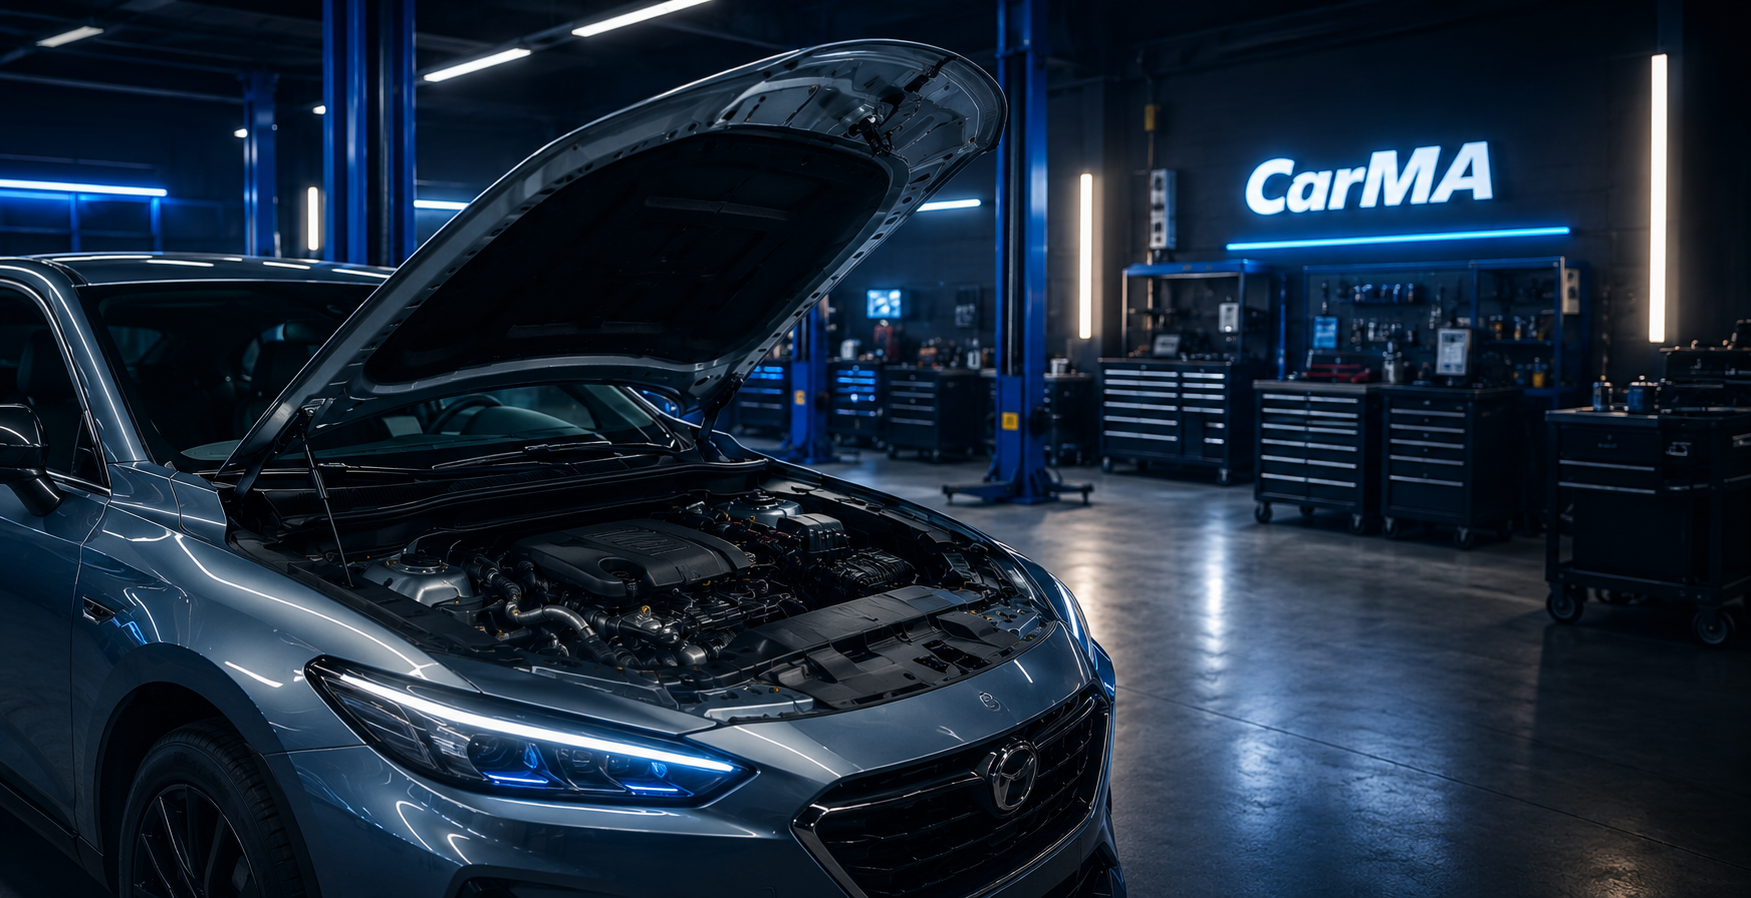
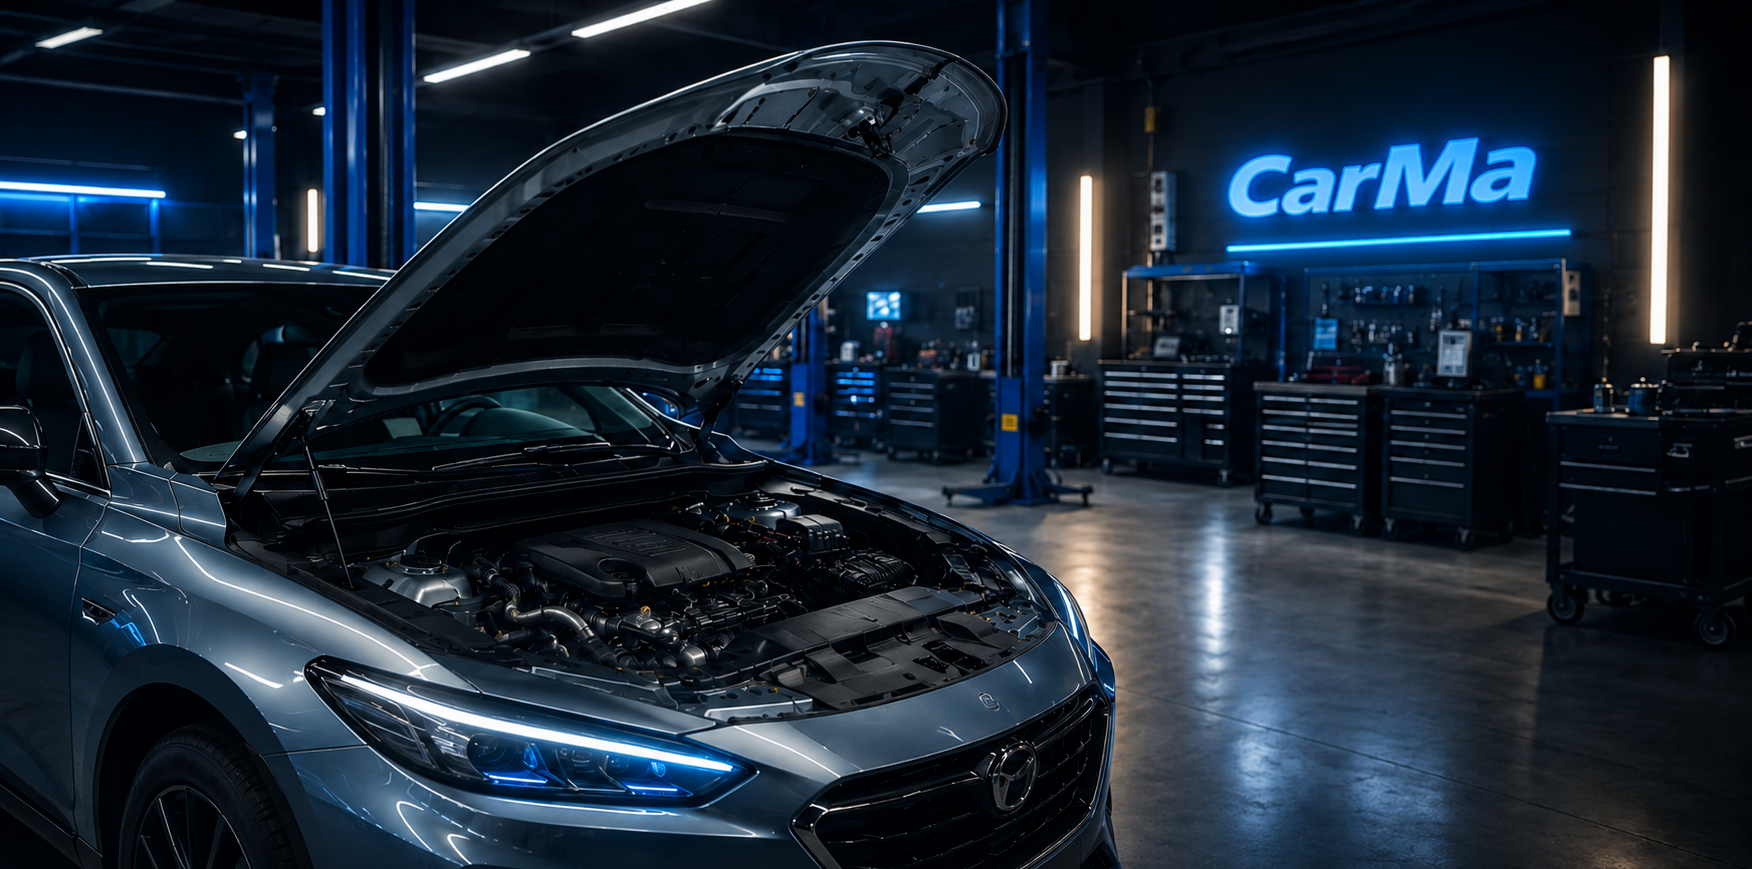
login page edit

diff --git a/web_frontend/src/pages/auth/Login.jsx b/web_frontend/src/pages/auth/Login.jsx
@@ -2,7 +2,7 @@ import React, { useState } from 'react';
 import { useNavigate } from 'react-router-dom';
 import Button from "../../component/ui/Button";
 import Input from "../../component/ui/Input";
-import { HiOutlineLockClosed, HiOutlineEnvelope, HiOutlineEye, HiOutlineEyeSlash } from "react-icons/hi2";
+import { HiOutlineLockClosed, HiOutlineEnvelope, HiOutlineEye, HiOutlineEyeSlash, HiOutlineCog6Tooth, HiOutlineShieldCheck, HiOutlineBolt } from "react-icons/hi2";
 import { login } from "../../services/authService";
 import { useAuth } from "../../context/AuthContext";
 
@@ -54,28 +54,52 @@ export default function Login() {
   };
 
   return (
-    <div className="relative flex flex-col items-center justify-center font-sans select-none" dir="rtl">
+    <div className="relative flex flex-col items-center justify-center font-sans select-none w-full" dir="rtl">
 
+      {/* Branding */}
       <div className="text-center mb-8">
-        <h1 className="text-6xl font-black text-premium-gold italic tracking-tighter drop-shadow-md flip-animation">CarMa</h1>
-        <p className="text-sm text-premium-gold/80 font-bold tracking-[0.2em] mt-2 mr-1 text-center">خدمة صيانة السيارات</p>
+        <h1 className="text-7xl font-black text-premium-gold italic tracking-tighter drop-shadow-lg flip-animation">CarMa</h1>
+        <p className="text-sm text-premium-gold/70 font-bold tracking-[0.25em] mt-2 uppercase">نحافظ على سيارتك بأفضل حال</p>
       </div>
 
-      <div className="glass3d w-full max-w-[500px] rounded-[40px] overflow-hidden px-8 py-16 lg:px-12 lg:py-24 border border-premium-gold/30 shadow-[0_0_80px_0_rgba(0,0,0,0.5)]">
-      <h2 className="text-3xl font-black text-premium-gold text-center mb-4 drop-shadow-sm">مرحباً Super Admin</h2>
-      <p className="text-white/70 text-sm text-center mb-8 font-medium">سجل دخولك للوصول إلى حسابك</p>
+      {/* Feature Badges */}
+      <div className="flex gap-10 mb-12">
+        <div className="flex flex-col items-center gap-3">
+          <div className="w-16 h-16 rounded-full border-2 border-premium-gold/30 flex items-center justify-center bg-premium-gold/5 shadow-lg shadow-premium-gold/5">
+            <HiOutlineCog6Tooth className="text-premium-gold" size={32} />
+          </div>
+          <span className="text-[11px] text-premium-gold font-bold text-center leading-tight">فنيين<br/>خبراء</span>
+        </div>
+        <div className="flex flex-col items-center gap-3">
+          <div className="w-16 h-16 rounded-full border-2 border-premium-gold/30 flex items-center justify-center bg-premium-gold/5 shadow-lg shadow-premium-gold/5">
+            <HiOutlineShieldCheck className="text-premium-gold" size={32} />
+          </div>
+          <span className="text-[11px] text-premium-gold font-bold text-center leading-tight">جودة<br/>عالية</span>
+        </div>
+        <div className="flex flex-col items-center gap-3">
+          <div className="w-16 h-16 rounded-full border-2 border-premium-gold/30 flex items-center justify-center bg-premium-gold/5 shadow-lg shadow-premium-gold/5">
+            <HiOutlineBolt className="text-premium-gold" size={32} />
+          </div>
+          <span className="text-[11px] text-premium-gold font-bold text-center leading-tight">سريع<br/>وموثوق</span>
+        </div>
+      </div>
+
+      {/* Glass Form Card */}
+      <div className="w-full rounded-3xl overflow-hidden px-8 py-10 border border-white/10 bg-white/5 backdrop-blur-2xl shadow-[0_0_60px_0_rgba(0,0,0,0.3)]">
+        <h2 className="text-2xl font-black text-premium-gold text-center mb-2">مرحباً بعودتك</h2>
+        <p className="text-premium-gold/60 text-sm text-center mb-8 font-medium">سجل دخولك للوصول إلى حسابك</p>
 
       {error && (
-        <div className="mb-4 p-3 rounded-xl bg-red-50 border border-red-200 text-red-600 text-sm text-center font-medium">
+        <div className="mb-4 p-3 rounded-xl bg-red-500/10 border border-red-500/20 text-red-400 text-sm text-center font-medium">
           {error}
         </div>
       )}
 
-      <form className="space-y-8" onSubmit={handleSubmit}>
+      <form className="space-y-6" onSubmit={handleSubmit}>
         <Input
           label="البريد الإلكتروني"
-          labelClassName="text-white/90"
-          icon={<HiOutlineEnvelope className="text-premium-gold/70" size={20} />}
+          labelClassName="text-premium-gold/80"
+          icon={<HiOutlineEnvelope className="text-premium-gold/60" size={20} />}
           placeholder="[email redacted]"
           type="email"
           value={email}
@@ -85,9 +109,9 @@ export default function Login() {
         <div className="relative">
           <Input
             label="كلمة المرور"
-            labelClassName="text-white/90"
+            labelClassName="text-premium-gold/80"
             type={showPassword ? "text" : "password"}
-            icon={<HiOutlineLockClosed className="text-premium-gold/70" size={20} />}
+            icon={<HiOutlineLockClosed className="text-premium-gold/60" size={20} />}
             placeholder="********"
             value={password}
             onChange={(e) => setPassword(e.target.value)}
@@ -96,7 +120,7 @@ export default function Login() {
             <button 
               type="button" 
               onClick={() => setShowPassword(!showPassword)}
-              className="absolute left-4 top-[45px] text-premium-gold/60 transition-colors"
+              className="absolute left-4 top-[45px] text-premium-gold/60 hover:text-premium-gold transition-colors"
             >
               {showPassword ? <HiOutlineEye size={18} /> : <HiOutlineEyeSlash size={18} />}
             </button>
@@ -104,18 +128,18 @@ export default function Login() {
         </div>
 
         <div className="flex justify-between items-center px-1 text-xs">
-          <label className="flex items-center gap-2 text-white/70 cursor-pointer font-medium">
-            <input type="checkbox" className="w-4 h-4 rounded border-slate-200 text-[#1D4ED8]" />
+          <label className="flex items-center gap-2 text-premium-gold/60 cursor-pointer font-medium">
+            <input type="checkbox" className="w-4 h-4 rounded border-premium-gold/20 text-premium-gold bg-transparent" />
             تذكرني
           </label>
-          {/* <a href="#" className="text-[#1D4ED8] font-bold hover:underline transition-all">نسيت كلمة المرور؟</a> */}
+          {/* <a href="#" className="text-premium-gold font-bold hover:underline transition-all">نسيت كلمة المرور؟</a> */}
         </div>
 
         <Button
           type="submit"
           disabled={loading}
           variant="custom"
-          className="w-full bg-premium-gold text-black hover:bg-gold-light h-14 rounded-2xl shadow-xl shadow-premium-gold/20 text-lg font-bold mt-4 transition-all duration-300 disabled:opacity-60 disabled:cursor-not-allowed transform hover:-translate-y-1"
+          className="w-full bg-premium-gold text-black hover:bg-gold-light h-14 rounded-2xl shadow-xl shadow-premium-gold/20 text-lg font-bold mt-2 transition-all duration-300 disabled:opacity-60 disabled:cursor-not-allowed transform hover:-translate-y-0.5"
         >
           {loading ? 'جاري تسجيل الدخول...' : 'تسجيل الدخول'}
         </Button> 

diff --git a/web_frontend/src/layouts/AuthLayout.jsx b/web_frontend/src/layouts/AuthLayout.jsx
@@ -1,14 +1,18 @@
 import { Outlet } from "react-router-dom";
-import bgImage from "../assets/login page.jpg";
+import bgImage from "../assets/login page.png";
 
 export default function AuthLayout() {
 
   return (
     <div 
       className="min-h-screen w-full flex items-center justify-center p-4 font-tajawal bg-cover bg-center bg-no-repeat relative overflow-hidden"
-      style={{ backgroundImage: `linear-gradient(rgba(0,0,0,0.5), rgba(0,0,0,0.5)), url(${bgImage})` }}
+      style={{ backgroundImage: `linear-gradient(rgba(0,8,20,0.5), rgba(0,8,20,0.5)), url(${bgImage})` }}
     >
-      <div data-aos="zoom-in" data-aos-duration="800" className="w-full max-w-[500px] relative z-10">
+      {/* Decorative glow accents */}
+      <div className="absolute top-1/4 left-1/4 w-96 h-96 bg-blue-500/10 rounded-full blur-3xl pointer-events-none" />
+      <div className="absolute bottom-1/4 right-1/4 w-72 h-72 bg-blue-600/10 rounded-full blur-3xl pointer-events-none" />
+      
+      <div data-aos="zoom-in" data-aos-duration="800" className="w-full max-w-[480px] relative z-10">
         <Outlet />
       </div>
     </div>

diff --git a/web_frontend/src/index.css b/web_frontend/src/index.css
@@ -86,8 +86,8 @@
 }
 
 .glass3d { 
-  
-  --color-glass3d: rgba(0, 0, 0, 0.92); 
+  --color-glass3d: rgba(0, 8, 20, 0.45); 
+  --filter-glass3d: blur(20px) saturate(180%);
   --noise-glass3d: none; 
 
   position: relative; 
@@ -142,8 +142,8 @@ input:-webkit-autofill,
 input:-webkit-autofill:hover, 
 input:-webkit-autofill:focus, 
 input:-webkit-autofill:active {
-    -webkit-box-shadow: 0 0 0 30px #f8fafc inset !important;
-    -webkit-text-fill-color: #1e293b !important;
+    -webkit-box-shadow: 0 0 0 30px rgba(0, 8, 20, 0.95) inset !important;
+    -webkit-text-fill-color: #ffffff !important;
     transition: background-color 5000s ease-in-out 0s;
 }
 

diff --git a/web_frontend/src/pages/landingpage/sections/Footer.jsx b/web_frontend/src/pages/landingpage/sections/Footer.jsx
@@ -23,7 +23,7 @@ export default function Footer() {
           {/* Brand */}
           <div className="lg:col-span-2">
             <h3 className="text-3xl font-black text-premium-gold italic tracking-tighter mb-4">
-              CarMA
+              CarMa
             </h3>
             <p className="text-slate-400 text-sm leading-relaxed mb-6 max-w-sm">
               منصة متكاملة لخدمات صيانة السيارات. نوفر لك أفضل الفنيين المعتمدين مع ضمان شامل على جميع خدماتنا.
@@ -62,7 +62,7 @@ export default function Footer() {
         {/* Divider */}
         <div className="border-t border-slate-800 pt-8 flex flex-col sm:flex-row items-center justify-between gap-4">
           <p className="text-slate-500 text-sm">
-            © {new Date().getFullYear()} CarMA. جميع الحقوق محفوظة.
+            © {new Date().getFullYear()} CarMa. جميع الحقوق محفوظة.
           </p>
           <div className="flex gap-3">
             {SOCIALS.map((social) => (

diff --git a/web_frontend/src/component/ui/Input.jsx b/web_frontend/src/component/ui/Input.jsx
@@ -8,7 +8,7 @@ const Input = ({ label, icon, type = "text", placeholder, labelClassName = "text
         <input
           type={type}
           placeholder={placeholder}
-          className="w-full px-4 py-3 rounded-2xl border border-white/10 focus:ring-2 focus:ring-blue-500 outline-none pr-10 transition-all placeholder:text-white/30 bg-white/10 text-white"
+          className="w-full px-4 py-3.5 rounded-xl border border-white/10 focus:ring-2 focus:ring-blue-500/50 focus:border-blue-500/30 outline-none pr-10 transition-all placeholder:text-white/20 bg-white/5 text-white"
           {...props}
         />
         {icon && (

diff --git a/web_frontend/src/pages/landingpage/sections/Navbar.jsx b/web_frontend/src/pages/landingpage/sections/Navbar.jsx
@@ -35,7 +35,7 @@ export default function Navbar() {
               <span className={`text-3xl font-black italic tracking-tighter transition-colors duration-500 ${
                 scrolled || mobileOpen ? "text-premium-gold" : "text-white"
               }`}>
-                CarMA
+                CarMa
               </span>
             </a>
           </div>